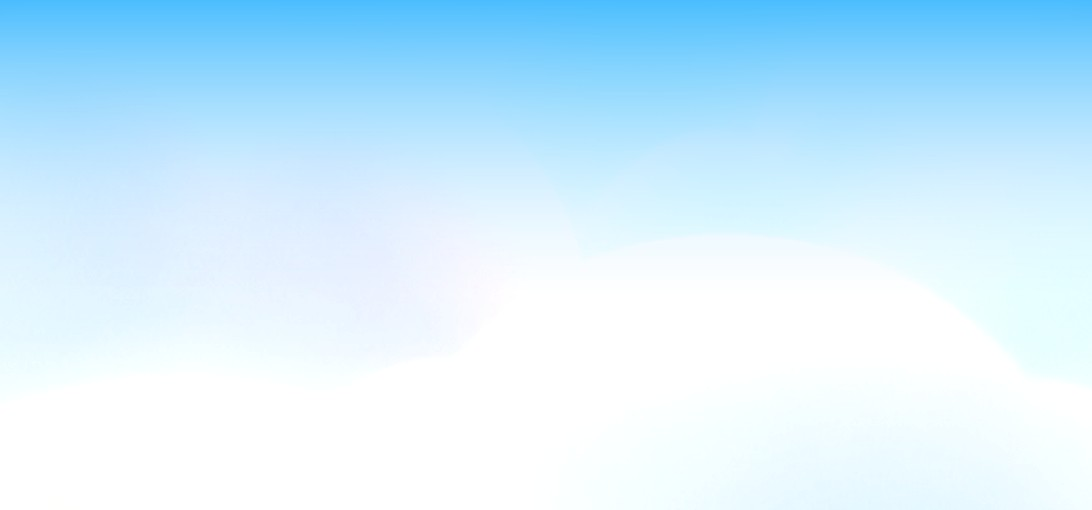
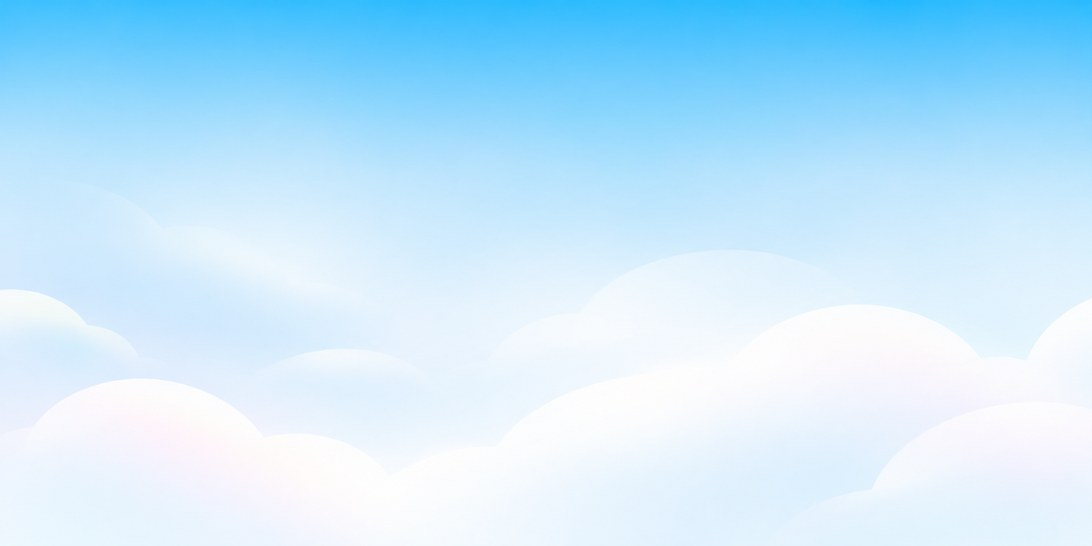
style(widget): match the Figma widget designs (사주앱 545:2495 · 547:2704 · 547:2705) — the designed cloud sky and night sky backgrounds, the wordmark with its light-blue bubble in both modes, the design's own edge spacing instead of the system margins, a 46pt (small 44pt) score with a 12.5pt '점', "어제보

diff --git a/src/widgets/FortuneWidget.ios.tsx b/src/widgets/FortuneWidget.ios.tsx
@@ -17,7 +17,7 @@
 import { createWidget, type WidgetEnvironment } from 'expo-widgets';
 import { Button, HStack, Image, Spacer, Text, VStack, ZStack } from '@expo/ui/swift-ui';
 import {
-  aspectRatio, background, buttonStyle, containerBackground, fixedSize, font, foregroundStyle, frame, lineLimit, lineSpacing,
+  aspectRatio, background, buttonStyle, containerBackground, fixedSize, font, foregroundStyle, frame, kerning, lineLimit, lineSpacing,
   monospacedDigit, padding, resizable, shapes, widgetURL,
 } from '@expo/ui/swift-ui/modifiers';
 import type { JSX } from 'react';
@@ -25,29 +25,31 @@ import type { FortuneWidgetProps } from './fortuneWidgetProps';
 
 // 함수 본문은 TS 타입을 걷어 낸 뒤 문자열로 옮겨져 위젯에서 그대로 돈다
 //
-// 디자인 규칙 (iOS · Android 같음)
-// - 글자: 머리줄 11 · 본문 13(작은)/15(중간) · 보조 12 · 점수 38(작은)/44(중간). 한 줄로 끝나야 하는 글은 lineLimit(1)
-// - 두 줄 요약은 fixedSize(vertical)로 높이를 지켜서, 자리가 빠듯해도 한 줄로 잘리지 않게 한다
-// - 머리줄은 위젯 맨 위 한 줄: 왼쪽 운Pick 워드마크(앱 로고 그대로), 오른쪽 날짜
+// 디자인: 피그마 '사주앱' 위젯 (중간 545:2495 · 547:2704, 작은 547:2705). 시안은 높이 887px = 위젯 170pt 기준이라
+// 1px ≈ 0.19pt 로 옮겼다. 시스템 기본 여백(content margins) 대신 시안의 여백을 쓴다.
+// - 머리줄: 운PICK 워드마크(18pt 높이) · 오른쪽 날짜 12.5pt
+// - 점수 46pt(작은 44pt) ExtraBold · '점' 12.5pt · 어제 대비 12.5pt 하늘색
+// - 요약 14.5pt(작은 12.5pt) · 키워드 13pt · 행운 칩(하늘색 20% 바탕) · '상세 풀이 보기 →'
 // - 위젯 전체를 누르면 앱 홈이 열리므로 작은 위젯에는 '상세 풀이 보기'를 두지 않는다
 const FortuneWidgetLayout: (props: FortuneWidgetProps, env: WidgetEnvironment) => JSX.Element = (props, env) => {
   'widget';
   const dark = env.colorScheme === 'dark';
   const c = dark
-    ? { chip: '#22344A', ink: '#EEF0F5', sub: '#C2C6D0', mute: '#A9B4C4', accent: '#5CC6FF', up: '#F07E7E', down: '#8CB4F5', button: '#EEF0F5', buttonInk: '#1D212D' }
-    : { chip: '#D3ECFC', ink: '#1D212D', sub: '#3F4B5A', mute: '#2F4256', accent: '#0E8FE0', up: '#E54D4D', down: '#2F6AD0', button: '#1D212D', buttonInk: '#FFFFFF' };
+    ? { ink: '#FFFFFF', score: '#FFFFFF', sub: '#B8B8B8', accent: '#28B2FE', up: '#FF7A7A', chip: '#28B2FE33', chipInk: '#FFFFFF', button: '#FFFFFF', buttonInk: '#0E1530' }
+    : { ink: '#222222', score: '#363636', sub: '#666666', accent: '#28B2FE', up: '#F25555', chip: '#28B2FE33', chipInk: '#000000', button: '#222222', buttonInk: '#FFFFFF' };
   const small = env.widgetFamily !== 'systemMedium';
   const app = 'woonpick://';
-  // 배경: 앱 홈의 구름 하늘 그림 (앱이 공유 폴더에 복사해 둔 것). 그림이 없으면 같은 색의 그라디언트
+  // 그림이 없을 때만 보이는 바탕 (시안 하늘 · 밤하늘 색)
   const sky = containerBackground(
-    { type: 'linearGradient', colors: dark ? ['#164A6E', '#121418'] : ['#3DB8FE', '#DDF2FF'], startPoint: { x: 0.5, y: 0 }, endPoint: { x: 0.5, y: 1 } },
+    { type: 'linearGradient', colors: dark ? ['#0E1638', '#1B2A5E'] : ['#1DAEFC', '#EAF6FF'], startPoint: { x: 0.5, y: 0 }, endPoint: { x: 0.5, y: 1 } },
     'widget',
   );
+  // 시스템 여백을 걷어 내고 시안의 여백을 준다
   const m = env.widgetContentMargins ?? { top: 16, bottom: 16, leading: 16, trailing: 16 };
+  const edge = small ? { top: 9.5, bottom: 16, leading: 12, trailing: 12.5 } : { top: 10, bottom: 14, leading: 19.5, trailing: 19.5 };
   const art = props.art
     ? <Image
         uiImage={`${props.art}bg-${small ? 'small' : 'medium'}-${dark ? 'dark' : 'light'}.jpg`}
-        // 위젯 안쪽 여백(content margins)만큼 밖으로 늘려 가장자리까지 채운다
         modifiers={[resizable(), frame({ maxWidth: 10000, maxHeight: 10000 }), padding({ top: -m.top, bottom: -m.bottom, leading: -m.leading, trailing: -m.trailing })]}
       />
     : null;
@@ -57,21 +59,26 @@ const FortuneWidgetLayout: (props: FortuneWidgetProps, env: WidgetEnvironment) =
       {content}
     </ZStack>
   );
-  const root = () => [frame({ maxWidth: 10000, maxHeight: 10000, alignment: 'topLeading' })];
-  const one = (size: number, weight: 'medium' | 'semibold' | 'bold' | 'heavy', color: string) => [font({ size, weight }), foregroundStyle(color), lineLimit(1)];
+  const root = () => [
+    frame({ maxWidth: 10000, maxHeight: 10000, alignment: 'topLeading' }),
+    padding({ top: edge.top - m.top, bottom: edge.bottom - m.bottom, leading: edge.leading - m.leading, trailing: edge.trailing - m.trailing }),
+  ];
+  type W = 'medium' | 'semibold' | 'bold' | 'heavy';
+  // 시안 자간 -4% (점수는 -6%)
+  const t = (size: number, weight: W, color: string, track = -0.04) => [font({ size, weight }), foregroundStyle(color), kerning(size * track)];
+  const one = (size: number, weight: W, color: string) => [...t(size, weight, color), lineLimit(1)];
 
   const logo = props.art ? `${props.art}logo-${dark ? 'dark' : 'light'}.png` : null;
-  // 워드마크는 말풍선이 글자 위로 솟아 있어 글자가 아래로 내려가 보인다 — 머리줄을 4pt 올려 위·아래 여백이 같아 보이게 하고,
   // 날짜는 말풍선이 아니라 '운PICK' 글자 아랫줄에 맞춘다
   const header = (
-    <HStack spacing={4} alignment="bottom" modifiers={[padding({ top: -4 })]}>
+    <HStack spacing={4} alignment="bottom">
       {logo ? (
         <Image uiImage={logo} modifiers={[resizable(), aspectRatio({ contentMode: 'fit' }), frame({ height: 18 })]} />
       ) : (
-        <Text modifiers={one(12, 'heavy', c.ink)}>운Pick</Text>
+        <Text modifiers={one(13, 'heavy', c.ink)}>운PICK</Text>
       )}
       <Spacer />
-      <Text modifiers={[...one(11, 'medium', c.mute), padding({ bottom: 1 })]}>{props.dateLabel ?? ''}</Text>
+      <Text modifiers={[...one(12.5, 'medium', c.sub), padding({ bottom: 0.5 })]}>{props.dateLabel ?? ''}</Text>
     </HStack>
   );
 
@@ -82,8 +89,8 @@ const FortuneWidgetLayout: (props: FortuneWidgetProps, env: WidgetEnvironment) =
       <VStack alignment="leading" spacing={0} modifiers={root()}>
         {header}
         <Spacer />
-        <Text modifiers={[font({ size: small ? 15 : 17, weight: 'bold' }), foregroundStyle(c.ink), lineSpacing(3), lineLimit(2)]}>{message}</Text>
-        <Text modifiers={[...one(12, 'semibold', c.accent), padding({ top: 6 })]}>운Pick 열기 →</Text>
+        <Text modifiers={[...t(small ? 15 : 17, 'bold', c.ink), lineSpacing(3), lineLimit(2)]}>{message}</Text>
+        <Text modifiers={[...one(12.5, 'semibold', c.accent), padding({ top: 6 })]}>운Pick 열기 →</Text>
       </VStack>
     );
   }
@@ -102,7 +109,7 @@ const FortuneWidgetLayout: (props: FortuneWidgetProps, env: WidgetEnvironment) =
         <VStack alignment="leading" spacing={0} modifiers={root()}>
           {header}
           <Spacer />
-          <Text modifiers={[font({ size: 16, weight: 'bold' }), foregroundStyle(c.ink), lineSpacing(3), lineLimit(2)]}>{'오늘의 운세가\n도착했어요'}</Text>
+          <Text modifiers={[...t(16, 'bold', c.ink), lineSpacing(3), lineLimit(2)]}>{'오늘의 운세가\n도착했어요'}</Text>
           <VStack modifiers={[padding({ top: 12 })]}>{draw(10000)}</VStack>
         </VStack>
       );
@@ -111,13 +118,8 @@ const FortuneWidgetLayout: (props: FortuneWidgetProps, env: WidgetEnvironment) =
       <VStack alignment="leading" spacing={0} modifiers={root()}>
         {header}
         <Spacer />
-        <HStack alignment="center" spacing={12}>
-          <VStack alignment="leading" spacing={4}>
-            <Text modifiers={one(17, 'bold', c.ink)}>오늘의 운세가 도착했어요</Text>
-            <Text modifiers={one(12, 'medium', c.sub)}>뽑으면 점수와 한 줄 요약을 보여 드려요</Text>
-          </VStack>
-          <Spacer />
-        </HStack>
+        <Text modifiers={one(17, 'bold', c.ink)}>오늘의 운세가 도착했어요</Text>
+        <Text modifiers={[...one(13, 'medium', c.sub), padding({ top: 4 })]}>뽑으면 점수와 한 줄 요약을 보여 드려요</Text>
         <HStack modifiers={[padding({ top: 12 })]}>
           {draw(150)}
           <Spacer />
@@ -128,16 +130,21 @@ const FortuneWidgetLayout: (props: FortuneWidgetProps, env: WidgetEnvironment) =
 
   // 뽑음: 점수 · 어제 대비 · 요약. 누르면 앱 홈 (뽑기·AI 문장은 홈에서 마스코트를 눌렀을 때)
   const delta = typeof props.delta === 'number' ? props.delta : null;
-  const deltaText = delta === null ? null : delta === 0 ? '어제와 같아요' : `어제보다 ${delta > 0 ? '▲' : '▼'}${Math.abs(delta)}`;
-  const deltaColor = delta === null || delta === 0 ? c.mute : delta > 0 ? c.up : c.down;
+  const deltaColor = delta !== null && delta > 0 ? c.up : c.accent;
+  const deltaView = delta === null ? null : delta === 0 ? (
+    <Text modifiers={one(12.5, 'semibold', c.accent)}>어제와 같아요</Text>
+  ) : (
+    <HStack spacing={0} alignment="center">
+      <Text modifiers={one(12.5, 'semibold', deltaColor)}>어제보다</Text>
+      <Text modifiers={[...one(9, 'semibold', deltaColor), padding({ leading: 7, trailing: 3 })]}>{delta > 0 ? '▲' : '▼'}</Text>
+      <Text modifiers={one(12.5, 'semibold', deltaColor)}>{String(Math.abs(delta))}</Text>
+    </HStack>
+  );
   const score = (
-    <VStack alignment="leading" spacing={2}>
-      <HStack alignment="lastTextBaseline" spacing={2}>
-        <Text modifiers={[font({ size: small ? 38 : 44, weight: 'heavy', design: 'rounded' }), monospacedDigit(), foregroundStyle(c.ink), lineLimit(1)]}>{String(props.score ?? 0)}</Text>
-        <Text modifiers={one(15, 'bold', c.sub)}>점</Text>
-      </HStack>
-      {deltaText === null ? null : <Text modifiers={one(12, 'semibold', deltaColor)}>{deltaText}</Text>}
-    </VStack>
+    <HStack alignment="lastTextBaseline" spacing={2}>
+      <Text modifiers={[...t(small ? 44 : 46, 'heavy', c.score, -0.06), monospacedDigit(), lineLimit(1)]}>{String(props.score ?? 0)}</Text>
+      <Text modifiers={one(12.5, 'medium', c.ink)}>점</Text>
+    </HStack>
   );
 
   if (small) {
@@ -146,7 +153,8 @@ const FortuneWidgetLayout: (props: FortuneWidgetProps, env: WidgetEnvironment) =
         {header}
         <Spacer />
         {score}
-        <Text modifiers={[font({ size: 13, weight: 'medium' }), foregroundStyle(c.ink), lineSpacing(2), lineLimit(2), fixedSize({ horizontal: false, vertical: true }), padding({ top: 6 })]}>{props.summary ?? ''}</Text>
+        {deltaView}
+        <Text modifiers={[...t(12.5, 'medium', c.ink), lineSpacing(4), lineLimit(2), fixedSize({ horizontal: false, vertical: true }), padding({ top: 7 })]}>{props.summary ?? ''}</Text>
       </VStack>
     );
   }
@@ -155,22 +163,27 @@ const FortuneWidgetLayout: (props: FortuneWidgetProps, env: WidgetEnvironment) =
   return wrap(
     <VStack alignment="leading" spacing={0} modifiers={root()}>
       {header}
-      <Spacer />
-      <HStack alignment="center" spacing={16}>
-        {score}
-        <VStack alignment="leading" spacing={6}>
-          <Text modifiers={[font({ size: 15, weight: 'semibold' }), foregroundStyle(c.ink), lineSpacing(3), lineLimit(2), fixedSize({ horizontal: false, vertical: true })]}>{props.summary ?? ''}</Text>
-          {props.keywords ? <Text modifiers={one(12, 'medium', c.sub)}>{props.keywords}</Text> : null}
+      {/* 가운데: 왼쪽 점수 · 어제 대비, 오른쪽 요약 · 키워드 (아랫줄을 맞춘다) */}
+      <HStack alignment="top" spacing={0} modifiers={[frame({ height: 74 }), padding({ top: 12 })]}>
+        <VStack alignment="leading" spacing={0} modifiers={[frame({ width: 100.5, alignment: 'topLeading' })]}>
+          {score}
+          <Spacer />
+          {deltaView}
+        </VStack>
+        <VStack alignment="leading" spacing={0} modifiers={[padding({ top: 2 })]}>
+          <Text modifiers={[...t(14.5, 'medium', c.ink), lineSpacing(1.5), lineLimit(2), fixedSize({ horizontal: false, vertical: true })]}>{props.summary ?? ''}</Text>
+          <Spacer />
+          {props.keywords ? <Text modifiers={one(13, 'medium', c.sub)}>{props.keywords}</Text> : null}
         </VStack>
         <Spacer />
       </HStack>
       <Spacer />
       <HStack alignment="center" spacing={8}>
         {lucky ? (
-          <Text modifiers={[...one(11, 'semibold', c.sub), padding({ horizontal: 8, vertical: 4 }), background(c.chip, shapes.capsule())]}>{lucky}</Text>
+          <Text modifiers={[...one(13, 'medium', c.chipInk), padding({ horizontal: 8.5, vertical: 2.5 }), background(c.chip, shapes.capsule())]}>{lucky}</Text>
         ) : null}
         <Spacer />
-        <Text modifiers={one(12, 'semibold', c.accent)}>상세 풀이 보기 →</Text>
+        <Text modifiers={one(12.5, 'semibold', c.accent)}>상세 풀이 보기 →</Text>
       </HStack>
     </VStack>
   );

diff --git a/src/widgets/FortuneWidget.android.tsx b/src/widgets/FortuneWidget.android.tsx
@@ -12,25 +12,29 @@ import { FlexWidget, ImageWidget, OverlapWidget, TextWidget } from 'react-native
 import type { FortuneWidgetProps } from './fortuneWidgetProps';
 
 type Hex = `#${string}`;
-const LIGHT = { chip: '#D3ECFC', ink: '#1D212D', sub: '#3F4B5A', mute: '#2F4256', accent: '#0E8FE0', up: '#E54D4D', down: '#2F6AD0', button: '#1D212D', buttonInk: '#FFFFFF', skyFrom: '#3DB8FE', skyTo: '#DDF2FF' } as const;
-const DARK = { chip: '#22344A', ink: '#EEF0F5', sub: '#C2C6D0', mute: '#A9B4C4', accent: '#5CC6FF', up: '#F07E7E', down: '#8CB4F5', button: '#EEF0F5', buttonInk: '#1D212D', skyFrom: '#164A6E', skyTo: '#121418' } as const;
+type Color = Hex | `rgba(${number}, ${number}, ${number}, ${number})`;
+// 피그마 '사주앱' 위젯 시안과 같은 색 (iOS FortuneWidget.ios.tsx 와 같다)
+const LIGHT = { ink: '#222222', score: '#363636', sub: '#666666', accent: '#28B2FE', up: '#F25555', chip: 'rgba(40, 178, 254, 0.2)', chipInk: '#000000', button: '#222222', buttonInk: '#FFFFFF', skyFrom: '#1DAEFC', skyTo: '#EAF6FF' } as const;
+const DARK = { ink: '#FFFFFF', score: '#FFFFFF', sub: '#B8B8B8', accent: '#28B2FE', up: '#FF7A7A', chip: 'rgba(40, 178, 254, 0.2)', chipInk: '#FFFFFF', button: '#FFFFFF', buttonInk: '#0E1530', skyFrom: '#0E1638', skyTo: '#1B2A5E' } as const;
 
 /** 앱과 같은 Pretendard (app.config.js 의 위젯 플러그인 fonts) */
 const F = { medium: 'Pretendard-Medium', semibold: 'Pretendard-SemiBold', bold: 'Pretendard-Bold', heavy: 'Pretendard-ExtraBold' };
-/** 운Pick 워드마크 (앱 로고 그대로, 390×216) */
+/** 운Pick 워드마크 (390×216) */
 const LOGO = { light: require('../../assets/widget/logo-light.png'), dark: require('../../assets/widget/logo-dark.png') };
-/** 앱 홈의 구름 하늘 배경 (iOS와 같은 그림) */
+/** 피그마 시안의 구름 하늘 배경 */
 const SKY = {
   small: { light: require('../../assets/widget/bg-small-light.jpg'), dark: require('../../assets/widget/bg-small-dark.jpg') },
   medium: { light: require('../../assets/widget/bg-medium-light.jpg'), dark: require('../../assets/widget/bg-medium-dark.jpg') },
 };
 
 /**
- * 디자인 규칙은 iOS와 같다 — 머리줄 11 · 본문 13(작은)/15(중간) · 보조 12 · 점수 38(작은)/44(중간),
- * 머리줄은 맨 위 한 줄(왼쪽 워드마크, 오른쪽 날짜), 작은 위젯에는 '상세 풀이 보기'를 두지 않는다.
+ * 피그마 시안(중간 545:2495 · 547:2704, 작은 547:2705)을 높이 170dp 기준으로 옮겼다 — iOS와 같은 수치.
+ * 머리줄 워드마크 18dp · 날짜 12.5 / 점수 46(작은 44) ExtraBold · '점' 12.5 · 어제 대비 12.5 하늘색 /
+ * 요약 14.5(작은 12.5) · 키워드 13 · 행운 칩 · '상세 풀이 보기 →'. 작은 위젯에는 키워드·칩·상세 풀이 보기가 없다.
  */
 export function FortuneWidget({ props, dark, small, width, height }: { props: FortuneWidgetProps; dark: boolean; small: boolean; width: number; height: number }) {
   const c = dark ? DARK : LIGHT;
+  const edge = small ? { top: 9.5, bottom: 16, left: 12, right: 12.5 } : { top: 10, bottom: 14, left: 19.5, right: 19.5 };
   // 구름 하늘 그림을 깔고 그 위에 내용을 올린다 (그림은 위젯 크기에 맞춰 늘린다)
   const col = (children: React.ReactNode, clickAction = 'OPEN_APP') => (
     <OverlapWidget
@@ -56,31 +60,32 @@ export function FortuneWidget({ props, dark, small, width, height }: { props: Fo
           width: 'match_parent',
           height: 'match_parent',
           flexDirection: 'column',
-          // 워드마크의 말풍선이 글자 위로 솟아 있어 위쪽 여백이 넓어 보인다 — 위만 4dp 줄여 위·아래가 같아 보이게
-          paddingHorizontal: 16,
-          paddingTop: 12,
-          paddingBottom: 16,
+          paddingTop: edge.top,
+          paddingBottom: edge.bottom,
+          paddingLeft: edge.left,
+          paddingRight: edge.right,
         }}
       >
         {children}
       </FlexWidget>
     </OverlapWidget>
   );
-  const text = (value: string, size: number, family: string, color: string, maxLines = 1, extra?: { lineHeight?: number; clickAction?: string }) => (
+  // 시안 자간 -4% (점수는 -6%)
+  const text = (value: string, size: number, family: string, color: Color, maxLines = 1, extra?: { lineHeight?: number; clickAction?: string; track?: number }) => (
     <TextWidget
       text={value}
       maxLines={maxLines}
       truncate="END"
       clickAction={extra?.clickAction}
-      style={{ fontSize: size, fontFamily: family, color: color as Hex, lineHeight: extra?.lineHeight }}
+      style={{ fontSize: size, fontFamily: family, color, lineHeight: extra?.lineHeight, letterSpacing: size * (extra?.track ?? -0.04) }}
     />
   );
   const fill = <FlexWidget style={{ flex: 1 }} />;
   const header = (
     <FlexWidget style={{ width: 'match_parent', flexDirection: 'row', alignItems: 'flex-end' }}>
-      <ImageWidget image={dark ? LOGO.dark : LOGO.light} imageWidth={32} imageHeight={18} resizeMode="contain" />
+      <ImageWidget image={dark ? LOGO.dark : LOGO.light} imageWidth={32.5} imageHeight={18} resizeMode="contain" />
       <FlexWidget style={{ flex: 1 }} />
-      {text(props.dateLabel ?? '', 11, F.medium, c.mute)}
+      {text(props.dateLabel ?? '', 12.5, F.medium, c.sub)}
     </FlexWidget>
   );
 
@@ -91,7 +96,7 @@ export function FortuneWidget({ props, dark, small, width, height }: { props: Fo
       {header}
       {fill}
       {text(message, small ? 15 : 17, F.bold, c.ink, 2, { lineHeight: small ? 21 : 24 })}
-      <FlexWidget style={{ paddingTop: 6 }}>{text('운Pick 열기 →', 12, F.semibold, c.accent)}</FlexWidget>
+      <FlexWidget style={{ paddingTop: 6 }}>{text('운Pick 열기 →', 12.5, F.semibold, c.accent)}</FlexWidget>
     </>);
   }
 
@@ -112,7 +117,7 @@ export function FortuneWidget({ props, dark, small, width, height }: { props: Fo
         ? text('오늘의 운세가\n도착했어요', 16, F.bold, c.ink, 2, { lineHeight: 22 })
         : <>
           {text('오늘의 운세가 도착했어요', 17, F.bold, c.ink)}
-          <FlexWidget style={{ paddingTop: 4 }}>{text('뽑으면 점수와 한 줄 요약을 보여 드려요', 12, F.medium, c.sub)}</FlexWidget>
+          <FlexWidget style={{ paddingTop: 4 }}>{text('뽑으면 점수와 한 줄 요약을 보여 드려요', 13, F.medium, c.sub)}</FlexWidget>
         </>}
       {draw}
     </>);
@@ -120,15 +125,19 @@ export function FortuneWidget({ props, dark, small, width, height }: { props: Fo
 
   // 뽑음: 점수 · 어제 대비 · 요약. 누르면 앱 홈
   const delta = typeof props.delta === 'number' ? props.delta : null;
-  const deltaText = delta === null ? null : delta === 0 ? '어제와 같아요' : `어제보다 ${delta > 0 ? '▲' : '▼'}${Math.abs(delta)}`;
-  const deltaColor = delta === null || delta === 0 ? c.mute : delta > 0 ? c.up : c.down;
+  const deltaColor = delta !== null && delta > 0 ? c.up : c.accent;
+  const deltaView = delta === null ? null : delta === 0 ? text('어제와 같아요', 12.5, F.semibold, c.accent) : (
+    <FlexWidget style={{ flexDirection: 'row', alignItems: 'center' }}>
+      {text('어제보다', 12.5, F.semibold, deltaColor)}
+      <FlexWidget style={{ paddingLeft: 7, paddingRight: 3 }}>{text(delta > 0 ? '▲' : '▼', 9, F.semibold, deltaColor)}</FlexWidget>
+      {text(String(Math.abs(delta)), 12.5, F.semibold, deltaColor)}
+    </FlexWidget>
+  );
+  const scoreSize = small ? 44 : 46;
   const score = (
-    <FlexWidget style={{ flexDirection: 'column' }}>
-      <FlexWidget style={{ flexDirection: 'row', alignItems: 'flex-end', flexGap: 2 }}>
-        {text(String(props.score ?? 0), small ? 38 : 44, F.heavy, c.ink, 1, { lineHeight: small ? 42 : 48 })}
-        <FlexWidget style={{ paddingBottom: 7 }}>{text('점', 15, F.bold, c.sub)}</FlexWidget>
-      </FlexWidget>
-      {deltaText === null ? null : text(deltaText, 12, F.semibold, deltaColor)}
+    <FlexWidget style={{ flexDirection: 'row', alignItems: 'flex-end' }}>
+      {text(String(props.score ?? 0), scoreSize, F.heavy, c.score, 1, { lineHeight: scoreSize + 4, track: -0.06 })}
+      <FlexWidget style={{ paddingLeft: 2, paddingBottom: 7 }}>{text('점', 12.5, F.medium, c.ink)}</FlexWidget>
     </FlexWidget>
   );
 
@@ -137,30 +146,36 @@ export function FortuneWidget({ props, dark, small, width, height }: { props: Fo
       {header}
       {fill}
       {score}
-      <FlexWidget style={{ paddingTop: 6 }}>{text(props.summary ?? '', 13, F.medium, c.ink, 2, { lineHeight: 18 })}</FlexWidget>
+      {deltaView}
+      <FlexWidget style={{ paddingTop: 7 }}>{text(props.summary ?? '', 12.5, F.medium, c.ink, 2, { lineHeight: 19 })}</FlexWidget>
     </>);
   }
 
   const lucky = [props.luckyColor, props.luckyNumber != null ? String(props.luckyNumber) : null, props.luckyTime].filter(Boolean).join(' · ');
   return col(<>
     {header}
-    {fill}
-    <FlexWidget style={{ width: 'match_parent', flexDirection: 'row', alignItems: 'center', flexGap: 16 }}>
-      {score}
-      <FlexWidget style={{ flex: 1, flexDirection: 'column', flexGap: 6 }}>
-        {text(props.summary ?? '', 15, F.semibold, c.ink, 2, { lineHeight: 21 })}
-        {props.keywords ? text(props.keywords, 12, F.medium, c.sub) : null}
+    {/* 가운데: 왼쪽 점수 · 어제 대비, 오른쪽 요약 · 키워드 (아랫줄을 맞춘다) */}
+    <FlexWidget style={{ width: 'match_parent', height: 74, marginTop: 12, flexDirection: 'row' }}>
+      <FlexWidget style={{ width: 100.5, height: 'match_parent', flexDirection: 'column' }}>
+        {score}
+        {fill}
+        {deltaView}
+      </FlexWidget>
+      <FlexWidget style={{ flex: 1, height: 'match_parent', flexDirection: 'column', paddingTop: 2 }}>
+        {text(props.summary ?? '', 14.5, F.medium, c.ink, 2, { lineHeight: 19 })}
+        {fill}
+        {props.keywords ? text(props.keywords, 13, F.medium, c.sub) : null}
       </FlexWidget>
     </FlexWidget>
     {fill}
     <FlexWidget style={{ width: 'match_parent', flexDirection: 'row', alignItems: 'center' }}>
       {lucky ? (
-        <FlexWidget style={{ backgroundColor: c.chip as Hex, borderRadius: 12, paddingHorizontal: 8, paddingVertical: 4 }}>
-          {text(lucky, 11, F.semibold, c.sub)}
+        <FlexWidget style={{ backgroundColor: c.chip, borderRadius: 13, paddingHorizontal: 8.5, paddingVertical: 2.5 }}>
+          {text(lucky, 13, F.medium, c.chipInk)}
         </FlexWidget>
       ) : null}
       <FlexWidget style={{ flex: 1 }} />
-      {text('상세 풀이 보기 →', 12, F.semibold, c.accent)}
+      {text('상세 풀이 보기 →', 12.5, F.semibold, c.accent)}
     </FlexWidget>
   </>);
 }
